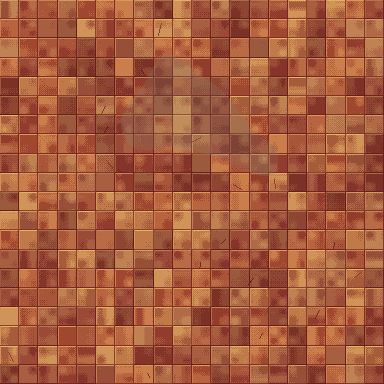
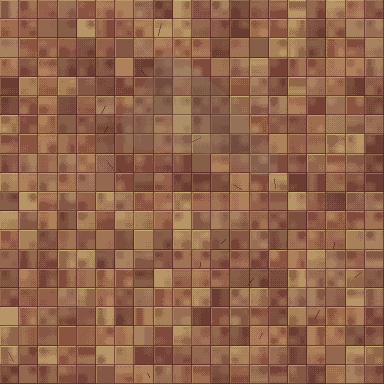
feat(c2): sol du café plus brun, lint, PLAN, DECISIONS et demandes de contrat
Claude-Session: https://claude.ai/code/session_019NfiSKjta1ymK1rKpk9RxJ

diff --git a/tools/exterior_recipes/village.py b/tools/exterior_recipes/village.py
@@ -78,7 +78,7 @@ DEVIATIONS = [
     "le grand jardin (x 20 → 34) est ouvert sur ses côtés : le plan ne clôt que x 20 → 24 ; ses grands décors (meule, "
     "charrette, épouvantail) sont des variantes de premier plan",
     "la lanterne à cristal et les fenêtres lumineuses du plan (`lumiere`) ne sont pas écrites : aucune lumière dans "
-    "les cartes, Atmosphere éclaire (la nuit, la façade du café reste éclairée par ses vitres de nuit)",
+    "les cartes, Atmosphere éclaire (la nuit, la façade du café n'a pas de vitres allumées : demande dans CONTRACT_REQUESTS.md)",
     "la porte de la maison Limashenka est posée ouverte : la condition du jour 11 est en métadonnée "
     "(`open_from_day`, `closed_text_key`) pour le récit",
 ]

diff --git a/tools/hd2d_village.py b/tools/hd2d_village.py
@@ -592,7 +592,7 @@ def floor_terracotta(size, rnd):
     cell = w / 20.0
     img = Image.new("RGBA", size, rgba("#5A3A2E"))
     d = ImageDraw.Draw(img)
-    palette = ["#A8553A", "#B8643E", "#9A4A36", "#C07A4A", "#B06A46", "#8E4632"]
+    palette = ["#94604A", "#A06C50", "#885644", "#A8805A", "#9A6E54", "#7C4E3E"]
     for j in range(20):
         for i in range(20):
             base = rnd.choice(palette)

diff --git a/docs/DECISIONS.md b/docs/DECISIONS.md
@@ -2913,3 +2913,52 @@ union entre lots) : `- **L<N> — sujet** : décision ; raison.`
 - **E4 — touche F6** : créneau suivant (Maj : tout de suite), comme F7 (moment) et F8 (temps), en
   version de débogage ou avec un paramètre de développement.
 - **R2 — raccord des livraisons R0 (PR n° 34) et d'I1** : la fusion avait perdu deux lignes de `InteriorPanel` (matériau `InteriorRoom.furniture_material`, et `occluder_triangles` qui lit `furniture_cut_line`), donc les meubles ne se coupaient plus au sud du joueur dans sa pièce ; rétablies sur la base d'I1 (`displayed_texture()`, `cut_z()`). Le coffre à jouets (`toy_chest`), tourné par sa vue de flanc livrée, touchait presque le mur nord : plan décalé à (22,3 ; 11,4) pour que les murs le fassent regarder O.
+- **C2 — la porte du café est à x = 19,8** (sortie `porte_cafe` 19,1 → 20,5, marqueur `from_cafe`, point
+  `cafe_porte`), au droit de la porte de la façade livrée (`cafe.png`), au lieu de 18,5 du plan ; CARTE.md
+  est corrigé en conséquence (idem `hanging_sign_key` à 12,7 et `firewood_pile` à 4,5, qui tombait dans le
+  ruisseau). Les écarts de la carte sont dans la liste des écarts de la recette `village.py`.
+- **C2 — le café a sa scène `cafe_village`** (7 × 6 m, mur 5,5 m, faîte 7,5 m) : celle de T1 pose trois
+  tables de terrasse bloquantes dans la place `devant_cafe`, qui doit rester libre. `BUILDING_SCENES` de la
+  recette donne la scène d'un bâtiment du plan qui n'a pas le nom de son image.
+- **C2 — jardins clos et bords invisibles** : un toit de 5 m cache 7 m au nord de lui, et la règle de caméra
+  veut que rien où l'on marche ne soit derrière un toit ; les jardins derrière les trois chaumières du sud
+  sont donc clos (`Edges` invisibles, clôture de branches au nord, haies sur les côtés) et les trous entre
+  bâtiments sont fermés par des haies et buissons visibles (jamais une collision seule qui se voit mal).
+- **C2 — variantes de premier plan nommées `*_front`** (`scarecrow_front`, `firewood_pile_front`) : un `*_fg`
+  libre est découvert par l'outil comme variante de la règle de caméra et changeait la scène de l'entrepôt ;
+  `*_front` n'est pas un suffixe de cette règle, la recette de `village` les pose à la main.
+- **C2 — aucune lumière dans les trois cartes** (règle de la mission) : ni lampe ni fenêtre lumineuse ; la
+  nuit, Atmosphere et la lumière magique du joueur. `no_lights` dans `SETTINGS` d'une carte du dehors supprime
+  le nœud `Lights` ; le café n'a donc pas de vitres allumées de nuit (demande dans CONTRACT_REQUESTS.md).
+- **C2 — la porte de la maison Limashenka est posée ouverte, sa condition (jour 11) est en métadonnée** de
+  la sortie (`open_from_day = 11`, `closed_text_key = "village/maison_close"`) : `MapExit` ne sait pas se
+  fermer et n'est pas à C2 (demande dans CONTRACT_REQUESTS.md). L'examen `maison_close` donne le texte de
+  la maison close.
+- **C2 — `door_backroom`** (rideau rayé entre la salle du café et l'arrière-boutique) est une porte à image
+  propre (`OWN_IMAGE_DOORS` de `interior_maps.py`) ; `door_room` des intérieurs a un côté « dehors » (`OUTSIDE_DOORS`).
+- **C2 — `BLOCKERS["cafe"]`** : la vitrine à gâteaux masque la taille de qui se tient derrière le comptoir ;
+  une zone bloquante `derriere_vitrine` (4,7 → 5,3 ; 1,8 → 2,55) l'interdit, la place `comptoir_arriere`
+  restant libre à côté.
+- **C2 — portrait de famille 58 × 77 px** (`wallitem_family_portrait`) : l'image la plus grande qui tienne
+  sur le mur du salon à 96 px par mètre sans passer sous l'horloge ; `test_hd2d_assets` la compte (CARTE.md
+  le mentionne).
+- **C2 — l'horloge du salon** a trois états (`wallitem_clock_limashenka` fermée, `_open` ouverte,
+  `anim/clock_limashenka_swing` : balancier de 4 images à 2 images/s, mêmes pixels du cadran : `random.Random(4242)`
+  fixe) ; le récit (E6) les échange au jour 11 au point `horloge`. La scène `clock_limashenka_swing` est prête.
+- **C2 — 38 remplaçants au manifeste, lot R3** (`tools/hd2d_village.py`) : 19 pour le dehors (matériaux
+  `roof_thatch`, `wall_wattle_daub` ; chaumières `cottage_thatch_a/b/c`, `village_barn`, `village_house_stone`,
+  `village_shed` avec leurs `_side` ; `fence_wattle`, `beehives`, `cart_hay`, `haystack`, `washing_trough`) et
+  19 pour les intérieurs (sol `floor_terracotta`, `wall_panel_dark`, `wall_wallpaper_floral`, `door_backroom`,
+  `window_shutters`, `wallitem_menu_cafe`, `wallitem_clock_limashenka` (et `_open`), `wallitem_family_portrait`, `cafe_counter`,
+  `cafe_table_heavy`, `cafe_bottle_shelf`, `cafe_drinkers_table`, `toolbox_gears`, `side_table_salon`,
+  `juice_glasses`, `cafe_cake_case`, `decals/rug_salon`, `anim/clock_limashenka_swing`). Une image livrée
+  du même nom les remplace sans toucher au code ; `--force --overwrite-delivered` n'est que pour refaire un
+  remplaçant.
+- **C2 — outils touchés hors des cartes** : `exterior_maps.py` (réglages `no_lights`, `examine`, `exit_meta`,
+  `PLACES_LOT`), `exterior_pose.py` (`Pose.height` rend 0 sur une case de vide), `exterior_props.py`
+  (`building()`, décors du village), `interior_maps.py` (cafe, maison, `image_size_m` cherche aussi
+  `props/`), `tests/stubs/t2_map_test.gd` (`expected_region`, `texts_path`, `OWN_IMAGE_DOORS`) ;
+  `test_waiting_maps`, `test_exterior_maps`, `test_hd2d_assets`, `test_hd2d_scenes` suivent (le village n'est
+  plus une carte d'attente ; 27 façades latérales au lieu de 21), sans rien relâcher.
+- **C2 — mesures** : draw calls du village entre 78 et 139 par vue du jeu (≤ 200 ; la vue d'ensemble, hors
+  jeu, 271), café 32 à 46, maison 29 à 41 ; chargement du village 390 à 600 ms, café 173 ms, maison 104 ms.

diff --git a/PLAN.md b/PLAN.md
@@ -1080,7 +1080,7 @@ static func lookup(path, key_path) -> String, forget_texts()
 L'équivalent de `tools/interior_maps.py` pour le dehors : il écrit une carte du dehors **d'après son
 plan** (bloc ```plan de `docs/lore/CARTE.md`, lu par `tools/carte_plans.py`). Cartes construites :
 `entrepot` (T1, reprise sans perte : `gen entrepot` redonne la scène du dépôt à l'octet) et
-`sentier` (C1) ; cartes d'attente (provisoires, un lot de la phase 3 les remplace) : `village`,
+`sentier` (C1) et `village` (C2) ; cartes d'attente (provisoires, un lot de la phase 3 les remplace) :
 `colline`, `foret_profonde`, `port`.
 
 ```text
@@ -1133,6 +1133,36 @@ python3 tools/exterior_maps.py props              # écrit les scènes de décor
   res://tests/integration/demo_c1.tscn build/shots/c1_<vue>.png 60` (vues : `entree`, `ouest`,
   `milieu`, `marais`, `embuscade`, `berge`, `est`, `fourche`, `ville`, `large` ; draw calls dans le
   journal).
+
+### (C2) Le village, le café et la maison Limashenka
+
+Trois cartes d'après CARTE.md, section 5 : `village` (extérieur, 58 × 40 m, `tools/exterior_recipes/village.py`,
+remplace la carte d'attente), `cafe` et `maison_limashenka` (intérieurs, `tools/interior_maps.py`, pièces
+`salle` / `arriere` et `vestibule` / `salon`). Les trois sont dans `ile_68.json` (lieu `village`).
+
+- **Réglages ajoutés à `exterior_maps.py`** (pour toute carte du dehors) : `no_lights` (aucun nœud `Lights` :
+  la nuit est celle d'`Atmosphere`), `examine` (objets à examiner posés dans la carte : nœuds `Examine`,
+  `text_key`, `texts`), `exit_meta` (métadonnées d'une sortie). Les bâtiments se posent par `BUILDING_SCENES`
+  (le café a sa scène `cafe_village`, sans terrasse en cylindres).
+- **La porte de la maison Limashenka** ne s'ouvre qu'au jour 11 (ACTE1.md 11.3) : la sortie `porte_limashenka`
+  du village porte `open_from_day = 11` et `closed_text_key = "village/maison_close"` en métadonnées ; `MapExit`
+  ne sait pas encore fermer une porte (demande dans `docs/CONTRACT_REQUESTS.md`), le récit (E6) lit ces
+  métadonnées. Sans cela, la porte s'ouvre.
+- **Le village** : rue d'est en ouest (entrée de l'entrepôt à l'est), chaumières, grange, café, maison close,
+  lavoir, ruches, belvédère au nord-est, ruisseau et jardins au sud, île flottante en toile de fond. Aucune
+  lumière dans la carte ; 14 places de la vie en plus du plan (`rue_ouest`, `rue_centre`, `terrasse_banc_1`,
+  `etal_rue`, `jardins_sud`…). Clôtures, haies et buissons ferment les cases que la règle de caméra cache ;
+  `Edges` bloque le reste.
+- **Le café** : comptoir à vitrine à gâteaux, étagère aux bouteilles, deux tables de deux chaises, table des
+  buveurs, arrière-boutique derrière un rideau rayé, clochette à la porte. Porte du mur sud (x = 4,75).
+- **La maison** : vestibule, salon, horloge à peigne doré (trois états : fermée, ouverte, balancier de 4 images
+  à 2 images/s, au manifeste, pour Willem au jour 11), canapé et fauteuil sous un drap, portrait de famille.
+- **Les images** : 38 remplaçants au manifeste (lot `R3`), recettes Pillow dans `tools/hd2d_village.py`
+  (`python3 tools/hd2d_village.py manifest` les inscrit ; `tools/hd2d_assets.py gen` les écrit) ; une image
+  livrée du même nom remplace le remplaçant sans toucher au code.
+- **Tests** : `tests/unit/test_village.gd`, `test_cafe.gd`, `test_maison_limashenka.gd`,
+  `tests/integration/test_village_in_game.gd` (entrepôt, village, café, maison, retour) ; captures
+  `build/c2/shots.sh <carte>:<lieu>:<moment>` sur `tests/integration/demo_c2.tscn` (voir DECISIONS.md, « C2 »).
 
 ### (E9) Lumière et temps : mode d'emploi
 

diff --git a/docs/CONTRACT_REQUESTS.md b/docs/CONTRACT_REQUESTS.md
@@ -729,3 +729,11 @@ Hors du périmètre de D2 (documents seulement) ; à reprendre par qui tient le 
   démonstration (`data/life/`, qui visent les cartes d'essai).
 - **E8 (ballon)** : le cadre des jeux (`LifeGame` : `assign_teams`, `formation`, joueur qui entre
   et sort, `on_player_attack`) ; un jeu `src/life/games/ballon.gd` et l'activité qui le nomme.
+- **C2 (porte fermée jusqu'au jour 11)** : `MapExit` ne sait pas se fermer. La porte `porte_limashenka` du
+  village (maison Limashenka, ouverte au jour 11, ACTE1.md 11.3) porte les métadonnées `open_from_day = 11` et
+  `closed_text_key = "village/maison_close"` (texte de `data/texts/village.json`) ; il faudrait que `MapExit`
+  (ou le récit, E6) refuse l'invite avant ce jour et lise ce texte. Tant que ce n'est pas fait, la porte
+  s'ouvre à tout moment (le test de la vraie partie l'emprunte).
+- **C2 (fenêtres allumées la nuit)** : le café n'a aucune lampe de carte (règle V1). Une image
+  `window_lit_*` (fenêtres éclairées de nuit) serait à livrer par le cahier d'images si l'on veut que la
+  façade du café se lise de nuit.
